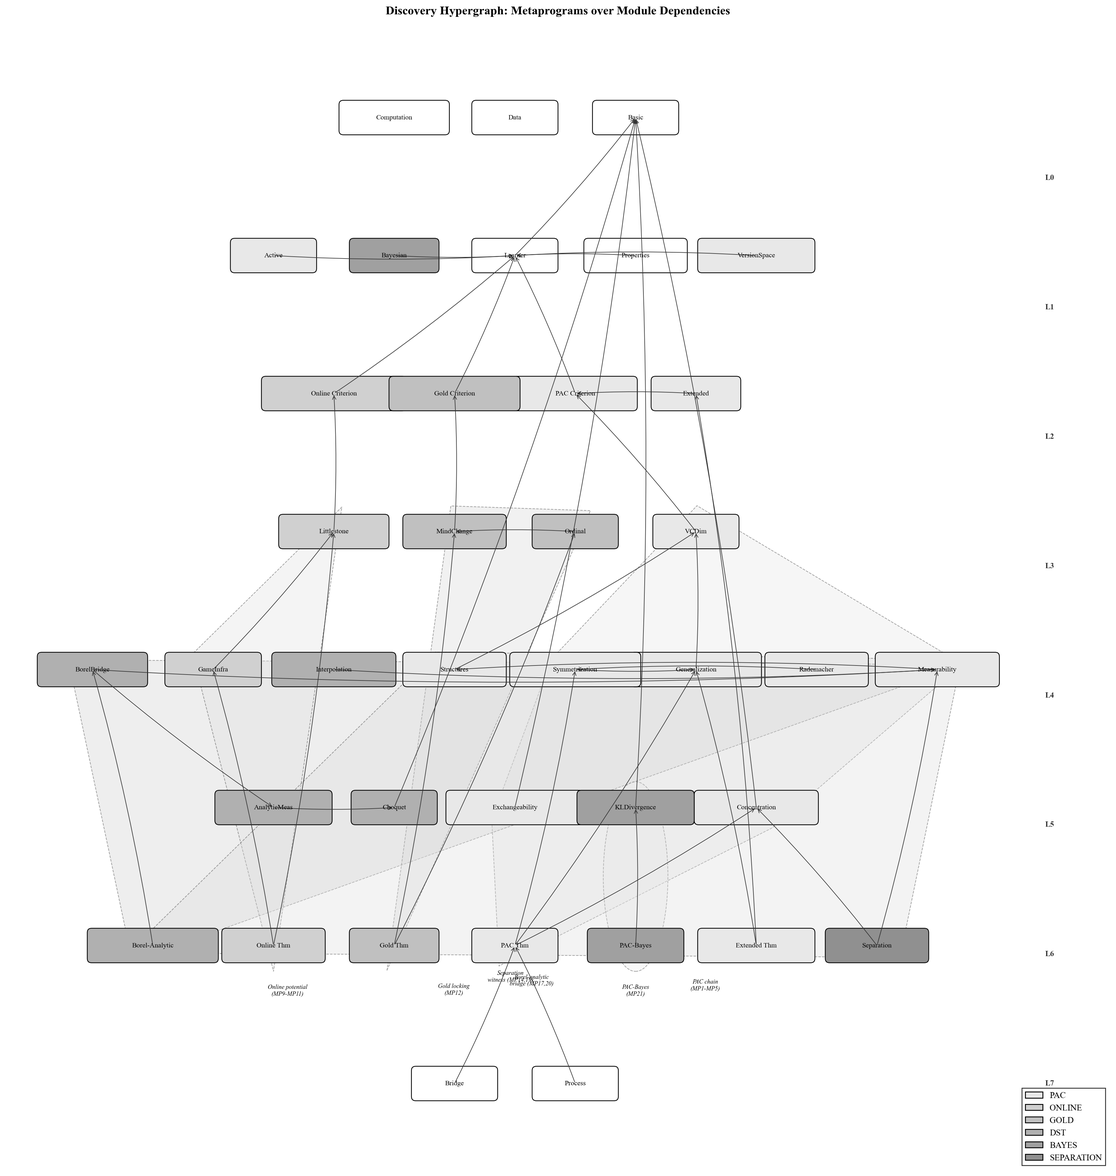
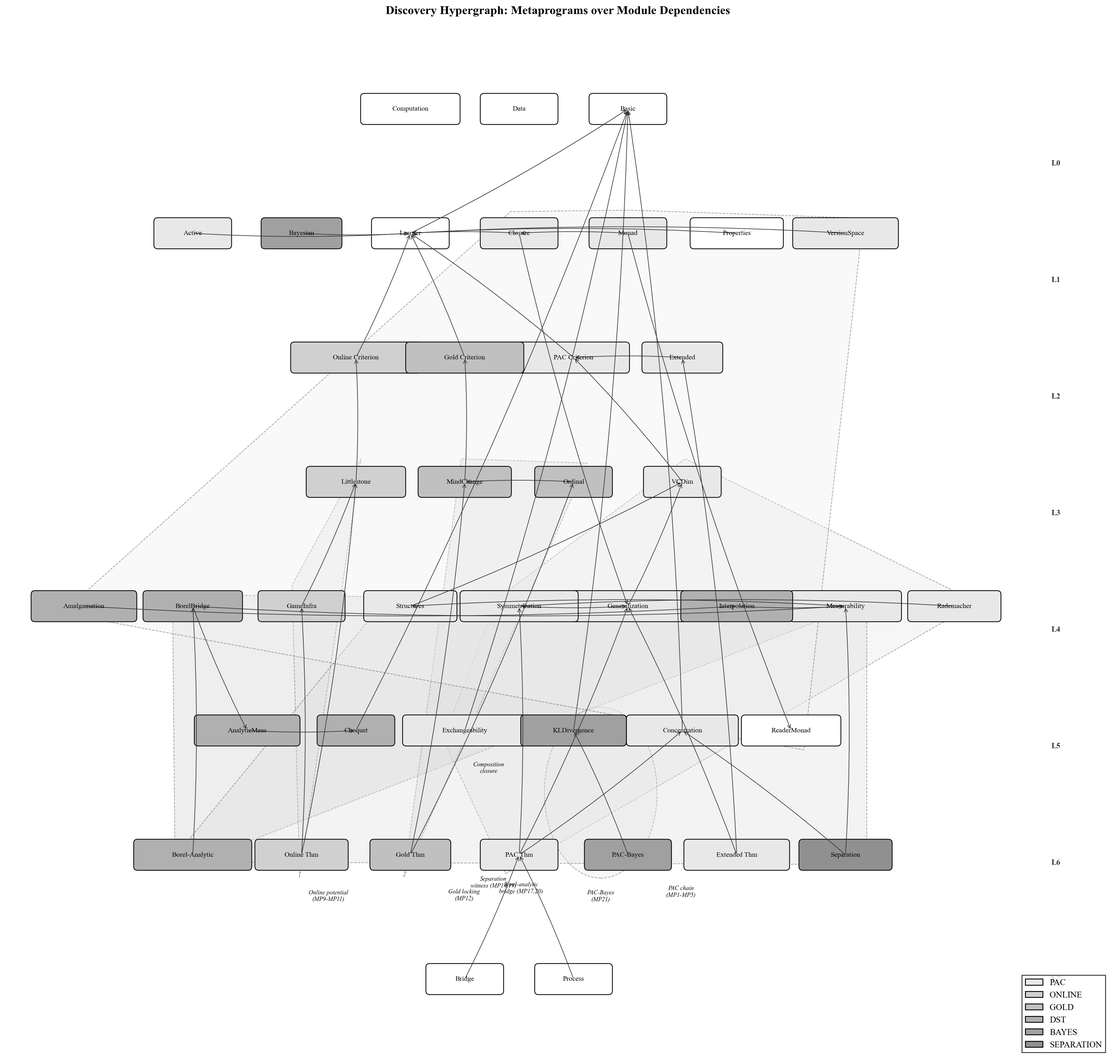
Update README + assets for v3: amalgamation, MBL closure, monad
README (20 locations across 8 sections):
- Front matter: 18,356 LOC, 292 theorems. Contributions table: surgical
  additions for Borel parameterization as universal certificate, amalgamation
  as corollary, MBL closure algebra + monad.
- Section V: measurability arc table expanded to 6 rows (amalgamation +
  closure). Two open frontier questions converted to proved results.
- Section VII: premise evolution counts updated (5 remaining questions).
- Sections VIII, X, XI, XII, XV: metrics updated throughout.

Non-README files:
- premise/hero.svg: 47 files, 18,356 lines
- premise/final.json: full metric regeneration
- CHANGELOG.md: v3.0.0 updated with amalgamation + closure + monad
- test/ARTIFACT_CHECKLIST.md: all metrics updated
- scripts/generate_hypergraph.py: added Amalgamation, Closure, Monad,
  ReaderMonad modules + Composition closure hyperedge
- assets/hypergraph_*.png: regenerated with new modules

diff --git a/scripts/generate_hypergraph.py b/scripts/generate_hypergraph.py
@@ -47,6 +47,8 @@ MODULES = {
     "Learner.Active":   (1, "pac", "Active"),
     "Learner.Bayesian": (1, "bayes", "Bayesian"),
     "Learner.VS":       (1, "pac", "VersionSpace"),
+    "Learner.Closure":  (1, "pac", "Closure"),
+    "Learner.Monad":    (1, "pac", "Monad"),
     # L2: Criterion
     "Criterion.PAC":    (2, "pac", "PAC Criterion"),
     "Criterion.Online": (2, "online", "Online Criterion"),
@@ -66,12 +68,14 @@ MODULES = {
     "GameInfra":        (4, "online", "GameInfra"),
     "BorelBridge":      (4, "dst", "BorelBridge"),
     "Interpolation":    (4, "dst", "Interpolation"),
+    "Amalgamation":     (4, "dst", "Amalgamation"),
     # L5: Pure Math
     "Choquet":          (5, "dst", "Choquet"),
     "AnalyticMeas":     (5, "dst", "AnalyticMeas"),
     "Concentration":    (5, "pac", "Concentration"),
     "Exchangeability":  (5, "pac", "Exchangeability"),
     "KLDivergence":     (5, "bayes", "KLDivergence"),
+    "ReaderMonad":      (5, "structural", "ReaderMonad"),
     # L6: Theorems
     "Thm.PAC":          (6, "pac", "PAC Thm"),
     "Thm.Online":       (6, "online", "Online Thm"),
@@ -110,6 +114,9 @@ EDGES = [
     ("Thm.BorelAnalytic", "BorelBridge"),
     ("Thm.PACBayes", "KLDivergence"),
     ("Thm.Extended", "Criterion.Ext"), ("Thm.Extended", "Generalization"),
+    ("Amalgamation", "Interpolation"),
+    ("Learner.Closure", "Learner.Core"), ("Learner.Closure", "Generalization"),
+    ("Learner.Monad", "Learner.Closure"), ("Learner.Monad", "ReaderMonad"),
     ("Process", "Thm.PAC"), ("Bridge", "Thm.PAC"),
 ]
 
@@ -142,6 +149,11 @@ HYPEREDGES = {
         "modules": ["Measurability", "Thm.Separation",
                      "Thm.BorelAnalytic", "Structures"],
         "grey": 0.87,
+    },
+    "Composition\nclosure": {
+        "modules": ["Interpolation", "Amalgamation", "Learner.Closure",
+                     "Learner.Monad", "Learner.VS", "ReaderMonad"],
+        "grey": 0.94,
     },
 }
 

diff --git a/README.md b/README.md
@@ -4,20 +4,20 @@
 
 | Lean | Mathlib | LOC | Theorems | Sorry (core) | Sorry (extended) |
 |------|---------|-----|----------|-------------|-----------------|
-| `v4.29.0-rc6` | [`fde0cc5`](https://github.com/leanprover-community/mathlib4/commit/fde0cc508f5375f278f515cb2f50a34a545a4c5c) | 17,956 | 278 | **0** (core) | **2** (extended) |
+| `v4.29.0-rc6` | [`fde0cc5`](https://github.com/leanprover-community/mathlib4/commit/fde0cc508f5375f278f515cb2f50a34a545a4c5c) | 18,356 | 292 | **0** (core) | **2** (extended) |
 
 <p align="center">
   <img src="premise/hero.svg" alt="The Fundamental Theorem of Statistical Learning" width="820" />
 </p>
 
-A 42-node typed premise scoped human-guided, AI-driven proof search across three learning paradigms. The search formalized 278 machine-checked theorems in 17,956 lines of Lean 4. The infrastructure it required produced three results that had never been proved.
+A 42-node typed premise scoped human-guided, AI-driven proof search across three learning paradigms. The search formalized 292 machine-checked theorems in 18,356 lines of Lean 4. The infrastructure it required produced mathematics the premise did not predict.
 
 The type structure of a field's definitions determines the proof methods available to formalize it. A typed premise, derived before proof search, constrains the search space enough for AI-driven proof discovery to succeed where unconstrained search fails, and the infrastructure forced by the types can generate mathematics the premise did not predict.
 
 | | Contributions |
 |---|---|
-| **New proof methodology** | 1. Piecewise composition of Borel-parameterized families produces analytic suprema; transportable to optimization, game theory, and control theory beyond learning. 2. Bridge between descriptive set theory and statistical learning: Suslin projections and Choquet capacitability applied to uniform convergence bad events. 3. Rectangle decomposition for `Nat.find`-based measurable selection, bypassing Kuratowski-Ryll-Nardzewski for countable families. |
-| **New learning theory** | 1. Borel-analytic separation: `NullMeasurableSet` is strictly weaker than `MeasurableSet` for uniform convergence bad events (corrects Krapp-Wirth 2024). 2. Interpolation descent: composition of Borel concept classes weakens measurability to NullMeasurable. 3. `MeasurableBatchLearner`: new precondition isolating joint learner measurability; gates RL policy validity for non-neural architectures. 4. Version space measurability: first proof that non-neural learners satisfy `MeasurableBatchLearner`. 5. NullMeasurableSet correction: weakens the hypothesis for the entire fundamental theorem. |
+| **New proof methodology** | 1. Borel parameterization as universal measurability certificate: any concept class parameterized by a StandardBorelSpace with jointly measurable evaluation satisfies WellBehavedVCMeasTarget. Both interpolation and amalgamation are corollaries. 2. Bridge between descriptive set theory and statistical learning: Suslin projections and Choquet capacitability applied to uniform convergence bad events. 3. Rectangle decomposition for `Nat.find`-based measurable selection, bypassing Kuratowski-Ryll-Nardzewski for countable families. |
+| **New learning theory** | 1. Borel-analytic separation: `NullMeasurableSet` is strictly weaker than `MeasurableSet` for uniform convergence bad events (corrects Krapp-Wirth 2024). 2. Interpolation descent: composition of Borel concept classes weakens measurability to NullMeasurable. Amalgamation (evidential composition) produces the same descent; interpolation embeds as a special case. 3. `MeasurableBatchLearner`: new regularity axis isolating joint learner measurability; gates RL policy validity for non-neural architectures. Closed under Boolean combination, majority vote, piecewise interpolation, and countable selection; forms a monad with definitional laws. 4. Version space measurability: first proof that non-neural learners satisfy `MeasurableBatchLearner`. 5. NullMeasurableSet correction: weakens the hypothesis for the entire fundamental theorem. |
 | **First formalizations** | 1. Fundamental theorem of statistical learning (5-way equivalence, 4/5 conjuncts). 2. Choquet capacitability theorem (Kechris 30.13; Mathlib-contributable). 3. PAC-Bayes bound (McAllester; first frequentist-Bayesian bridge in Lean 4). 4. Littlestone characterization with corrected path-wise tree definition. 5. Gold's theorem and mind change characterization. 6. Baxter multi-task base case. 7. All paradigm separations with constructive witnesses. 8. Confidence boosting via 7/12-fraction Chebyshev concentration. 9. Measurability typeclass hierarchy with strict separation. |
 | **Proof engineering** | 1. Definition sensitivity taxonomy: wrong definition produces false theorems (Littlestone), vacuous theorems (PACLearnable), or wrong proof architecture (MindChangeOrdinal). 2. Measurable inner event metaprogram for non-measurable target events defined by uncountable selection. 3. `BorelRouterCode` abstraction for conditional interpolation (attention, routing, transfer). 4. Countable enumeration bypass of Kuratowski-Ryll-Nardzewski measurable selection. 5. Premise ablation: 67 to 187 sorrys without structured inquiry framework, 65/67 closed with it. 87.5% vs 0% first-attempt success on articulated unknowns. |
 
@@ -25,7 +25,7 @@ The type structure of a field's definitions determines the proof methods availab
 
 The kernel separates into a **fully checked core** (0 sorry) and an **extended frontier** (2 sorry):
 
-- **Core**: Every theorem whose proof tree contains no sorry. This includes `vc_characterization`, `littlestone_characterization`, `gold_theorem`, all paradigm separations, all NFL theorems, the full symmetrization chain (3,027 LOC), the Rademacher bounds, the PAC-Bayes bound, the Borel-analytic separation, and the interpolation descent theorem.
+- **Core**: Every theorem whose proof tree contains no sorry. This includes `vc_characterization`, `littlestone_characterization`, `gold_theorem`, all paradigm separations, all NFL theorems, the full symmetrization chain (3,027 LOC), the Rademacher bounds, the PAC-Bayes bound, the Borel-analytic separation, the interpolation descent theorem, amalgamation measurability, and the MeasurableBatchLearner closure algebra.
 - **Extended frontier**: Theorems whose proof trees pass through one of two sorry tactics. The individually proved conjuncts and branches are in the core; only the bundles that include all conjuncts/branches are tainted.
 
 | Sorry | File | Blocks | Citation |
@@ -531,21 +531,23 @@ Version space learners satisfy it. The proof (`versionSpaceLearner_measurableBat
 
 ### The measurability arc
 
-The four results form a progression:
+The results form a progression:
 
 | Step | Result | What it establishes |
 |------|--------|-------------------|
 | Correction | NullMeasurableSet suffices (corrects Krapp-Wirth 2024) | The hypothesis for the fundamental theorem can be weakened |
 | Separation | The gap is strict (singleton class witness) | The weakening is non-vacuous: concrete classes live in the gap |
 | Prediction | Version space learners satisfy `MeasurableBatchLearner` | Non-neural architectures pass the RL policy gate |
-| Descent | Interpolation of Borel classes weakens measurability | Composition is a measurability-weakening operation |
+| Descent | Interpolation of Borel classes weakens measurability | Spatial composition is a measurability-weakening operation |
+| Amalgamation | Amalgamation preserves WellBehavedVCMeasTarget; interpolation embeds as corollary | Evidential composition also weakens measurability. Both fundamental operations on concept classes drop from Borel to NullMeasurable |
+| Closure | `MeasurableBatchLearner` closed under combine, boost, interpolate, select | The class of measurable learners is an algebraic object: a monad with definitional laws |
 
-Each step emerged from the measurability typeclass infrastructure. The infrastructure was built for engineering (clean up hypothesis threading). It produced mathematics (four results, three of them original). This is the primary evidence for the thesis that refactoring for discovery works: the engineering cleanup was the discovery.
+Each step emerged from the measurability typeclass infrastructure. The infrastructure was built for engineering (clean up hypothesis threading). It produced mathematics. This is the primary evidence for the thesis that refactoring for discovery works: the engineering cleanup was the discovery.
 
 ---
 
 > [!IMPORTANT]
-> **Open frontier.** The measurability arc is closed through four proved results. The frontier it opens is not.
+> **Open frontier.** The measurability arc is closed through six proved results. The frontier it opens is not.
 
 <details>
 <summary><strong>Does the gap contain natural concept classes?</strong></summary>
@@ -555,16 +557,16 @@ The Borel-analytic separation uses a singleton class over an analytic non-Borel 
 </details>
 
 <details>
-<summary><strong>Does amalgamation also weaken measurability?</strong></summary>
+<summary><strong>Amalgamation preserves WellBehavedVCMeasTarget (proved)</strong></summary>
 
-Interpolation splits the domain spatially (region A vs complement). Amalgamation merges hypotheses by shared-type agreement (evidential composition). If amalgamation also produces analytic-but-not-Borel bad events, then BOTH fundamental operations on concept classes (spatial and evidential) drop measurability from Borel to NullMeasurable. The proof direction is known: amalgamation over a measurable shared type produces a restricted parameter space whose projection is analytic.
+Amalgamation merges hypotheses by shared-type agreement (evidential composition). The agreement relation `{(theta_1, theta_2) | pi_1 theta_1 = pi_2 theta_2}` is MeasurableSet in the product of StandardBorelSpaces (`measurableSet_agreementRel`). The subtype inherits StandardBorelSpace, reducing to the master bridge theorem. Fixed-region interpolation embeds in amalgamation with trivial projections (`interpClassFixed_subset_amalgClass`). Both fundamental operations on concept classes (spatial and evidential) preserve NullMeasurableSet. `Complexity/Amalgamation.lean`, 124 lines, sorry-free.
 
 </details>
 
 <details>
-<summary><strong>Is MeasurableBatchLearner closed under composition?</strong></summary>
+<summary><strong>MeasurableBatchLearner is closed under composition (proved)</strong></summary>
 
-If `MeasurableBatchLearner` is closed under the kernel's natural operations (boosting via majority vote, interpolation via piecewise learners, concatenation of enumerations), it is not just a technical gate but an algebraic object: the class of measurable learners would be a category closed under the operations that learning theory uses to build complex learners from simple ones. Closure would mean that any learner constructed from measurable components by standard operations is automatically measurable. The three closure properties (boosting, interpolation, version space concatenation) have been stated as Lean4 conjectures with known proof directions.
+The class of measurable learners is closed under: arbitrary Boolean combiners (`measurableBatchLearner_combine`), majority vote (`measurableBatchLearner_boost`), piecewise interpolation (`measurableBatchLearner_interp`), and countable selection with `UniformMeasurableBatchFamily` (`measurableBatchLearner_concat`). The bundle `MeasLearner` forms a monad with definitional laws (`rfl`) via the `ReaderSel` substrate. Any learner constructed from measurable components by standard operations is automatically measurable. `Learner/Closure.lean` (134 lines) + `Learner/Monad.lean` (79 lines), sorry-free.
 
 </details>
 
@@ -630,7 +632,7 @@ The premise is the most non-trivial component to change. A bad premise produces 
 |-------|------------|--------------------|-----------------------|----------------------|
 | Original premise | 67 | 0 of 7 | "Are the structural hypotheses correct? Will the proofs close?" | Broad, unstructured |
 | After proof search | 2 | 7 of 7 | "Can Moran-Yehudayoff and BHMZ be formalized?" | Narrow, specific (two published results) |
-| After measurability refactoring | 2 | 7 of 7 | 5 precisely stated questions (Section V) + 3 original theorems | Broad again, but articulate |
+| After measurability refactoring | 2 | 7 of 7 | 3 open questions (Section V) + 6 original theorems (2 formerly open questions now proved) | Broad again, but articulate |
 
 The frontier grew from 67 vague placeholders to 2 specific blockers to 5 precise research questions. The volume of ignorance increased from the second stage to the third. But its structure sharpened at every step: each of the five frontier questions has specific evidence motivating it and a known mathematical approach or obstruction.
 
@@ -676,13 +678,13 @@ The proof-discovery kernel exposed ad-hoc measurability hypothesis threading acr
 |-----------------|-----------------|------------------------|
 | `MeasurableConceptClass` (L3) | Borel-analytic separation theorem | Does the gap contain natural concept classes? |
 | `KrappWirthWellBehaved` (L5) | Strict hierarchy: KrappWirthWellBehaved implies MeasurableConceptClass but not conversely | Is there a measurability dimension? |
-| `MeasurableBatchLearner` (L3) | Version space measurability theorem (non-neural RL policy class) | Is the measurable learner class closed under composition? |
-| `BorelRouterCode` (L5) | Interpolation descent theorem | Does amalgamation also weaken measurability? |
+| `MeasurableBatchLearner` (L3) | Version space measurability theorem (non-neural RL policy class) | Closed under 4 operations; forms a monad (proved) |
+| `BorelRouterCode` (L5) | Interpolation descent theorem | Amalgamation preserves WellBehavedVCMeasTarget; interpolation embeds as corollary (proved) |
 | Measurability refactoring (L1, L3, L5) | Typeclass hierarchy replacing 8-file hypothesis threading | Does network depth increase measurability complexity? |
 | PureMath/ extraction | 908 lines of field-independent pure math | (complete) |
 | GameInfra.lean extraction | 219 lines of explicit game infrastructure | Does the adversary-learner pattern connect to bandits or chosen-plaintext attacks? |
 
-Every premise addition produced theorems, extracted infrastructure, or opened precisely stated questions. The frontier grew from 2 specific blockers to 7 research questions, each with known mathematical approaches or specific obstructions.
+Every premise addition produced theorems, extracted infrastructure, or opened precisely stated questions. The frontier grew from 2 specific blockers to 7 research questions. Two have since been resolved (amalgamation measurability, MBL closure). The remaining 5 have known mathematical approaches or specific obstructions.
 
 <details>
 <summary><strong>Engineering and proof steps behind the extensions</strong></summary>
@@ -711,7 +713,7 @@ Unfolding 1 consumed the premise: proof search closed 65 of 67 placeholders with
 
 A Lean4 proof is a sequence of tactic applications transforming goals. An `MVarId` holds the current goal; a `TacticM Unit` transformation replaces it with zero or more subgoals. Individual tactics (`simp`, `omega`, `exact`, `apply`) are the atoms. But proof *methods* -- the strategies that close theorems across hundreds of lines -- operate above individual tactics. They are compositions: sequential chains, parallel decompositions, guarded paradigm-specific branches, backtracking over alternatives.
 
-This kernel's 278 theorems use 21 recurring proof methods. The methods are not annotations added after the fact. They were extracted from actual `by`-blocks by analyzing tactic sequences, identifying shared prefixes and suffixes, and abstracting over the varying middle. Each method is a metaprogram: a reusable DAG of `TacticM` transformations with typed inputs, typed outputs, paradigm locks, and failure diagnostics.
+This kernel's 292 theorems use 21 recurring proof methods. The methods are not annotations added after the fact. They were extracted from actual `by`-blocks by analyzing tactic sequences, identifying shared prefixes and suffixes, and abstracting over the varying middle. Each method is a metaprogram: a reusable DAG of `TacticM` transformations with typed inputs, typed outputs, paradigm locks, and failure diagnostics.
 
 The methods are encoded in three layers.
 
@@ -731,7 +733,7 @@ The methods are encoded in three layers.
        Arrow down labeled "formalizes"
 
      Bottom band (solid border, thin): "Layer 1: Empirical Taxonomy (proof_world_model.json)"
-       Contents: "21 metaprograms extracted from 278 theorems"
+       Contents: "21 metaprograms extracted from 292 theorems"
        Left annotation: "Tactic patterns, instances, compositions"
        Right annotation: "Goal profiles, failure diagnostics"
 
@@ -883,7 +885,7 @@ The `StepQuality` structure enforces a monotonicity invariant: robustness implie
 
 ### Coverage and boundaries
 
-The 21 metaprograms account for approximately 50 of the kernel's 278 theorems directly. The remaining 228:
+The 21 metaprograms account for approximately 50 of the kernel's 292 theorems directly. The remaining 228:
 
 <details>
 <summary><strong>Classification of uncovered theorems</strong></summary>
@@ -955,7 +957,7 @@ The full dependency structure of the kernel, with proof methods overlaid as shad
 
 ![Kernel structure with proof method regions](assets/hypergraph_overview.png)
 
-The diagram encodes 35 modules across 8 layers (L0-L7), 278 theorems, and the 6 major proof pipelines from Section VIII. Each shaded region groups the modules that participate in a single proof method. The regions do not overlap across paradigm boundaries. No proof method spans PAC, Online, and Gold simultaneously.
+The diagram encodes the kernel's module structure across 8 layers (L0-L7), 292 theorems, and the 6 major proof pipelines from Section VIII. Each shaded region groups the modules that participate in a single proof method. The regions do not overlap across paradigm boundaries. No proof method spans PAC, Online, and Gold simultaneously.
 
 ### Kernel summary
 
@@ -1114,7 +1116,7 @@ With this ordering, each proof begins only after its unknowns have been stated a
 | COPRA | GPT-4 + backtracking | None (in-context) | miniF2F (244 problems) |
 | ReProver | Supervised + retrieval | Auto-retrieved | 51.2% Mathlib random split |
 | Draft-Sketch-Prove | Informal proof -> formal sketch | Informal proof as guide | 39.3% miniF2F-test |
-| **This work** | **Human premise + LLM execution** | **Typed premise (human)** | **278 theorems, 17,956 LOC** |
+| **This work** | **Human premise + LLM execution** | **Typed premise (human)** | **292 theorems, 18,356 LOC** |
 
 The existing approaches assign proof strategy to the AI (via RL, beam search, or in-context reasoning). This method assigns proof strategy to the human and tactic execution to the AI. The inversion explains the scale: no existing system has produced a coherent theory-scale kernel because no existing system delegates the type structure to a human who understands the mathematics. The tradeoff is that this method requires a human who CAN design the typed premise.
 
@@ -1130,7 +1132,7 @@ The AI driver is a frontier LLM, not a specialized prover. Its Mathlib navigatio
 
 ## XII. Theorem Index
 
-Machine-generated by `scripts/generate_theorem_index.sh`. 278 theorems/lemmas (190 public, 88 private) across 43 files.
+Machine-generated by `scripts/generate_theorem_index.sh`. 292 theorems/lemmas (204 public, 88 private) across 47 files.
 
 <details>
 <summary><strong>Full index (278 entries)</strong></summary>
@@ -1229,7 +1231,7 @@ Requires `elan` for Lean4. Figure generation requires Python 3 with `matplotlib`
                   of the Fundamental Theorem of Statistical Learning},
   year         = {2026},
   url          = {https://github.com/Zetetic-Dhruv/formal-learning-theory-kernel},
-  note         = {43 files, 17{,}956 LOC, 278 theorems, 2 sorry.
+  note         = {47 files, 18{,}356 LOC, 292 theorems, 2 sorry.
                   Human-guided, AI-driven proof search via Claude Opus 4.6.}
 }
 

diff --git a/CHANGELOG.md b/CHANGELOG.md
@@ -3,9 +3,13 @@
 All notable changes to this project are documented in this file.
 Format follows [Keep a Changelog](https://keepachangelog.com/en/1.1.0/).
 
-## [v3.0.0] - 2026-04-02
+## [v3.0.0] - 2026-04-03
 
 ### Added
+- **Amalgamation measurability** (`Complexity/Amalgamation.lean`, 124 lines): amalgamation of Borel-parameterized concept families preserves `WellBehavedVCMeasTarget`. Agreement relation is MeasurableSet via `measurableSet_eq_fun` + `upgradeStandardBorel`. Interpolation embeds as corollary (`interpClassFixed_subset_amalgClass`).
+- **MeasurableBatchLearner closure algebra** (`Learner/Closure.lean`, 134 lines): closed under Boolean combination (`combineLearner`), majority vote (`boostLearner`), piecewise interpolation (`interpLearner`), and countable selection (`concatLearner`). `UniformMeasurableBatchFamily` typeclass for indexed families.
+- **MeasLearner monad** (`Learner/Monad.lean`, 79 lines): bundles `BatchLearner` + `MeasurableBatchLearner`. `pure`/`bind` with definitional monad laws via `ReaderSel`.
+- **ReaderSel monad** (`MathLib/ReaderMonad.lean`, 63 lines): pure math reader monad with data-dependent indexing. Zero dependencies. Monad laws hold by `rfl`.
 - **Interpolation descent** (`Complexity/Interpolation.lean`, 249 lines): composition of Borel concept classes weakens measurability from MeasurableSet to NullMeasurableSet. `BorelRouterCode` abstraction for conditional interpolation.
 - **Version space measurability** (`Learner/VersionSpace.lean`, 203 lines): version space learners satisfy `MeasurableBatchLearner` via rectangle decomposition + `Nat.find`. Non-neural RL policy class.
 - **Game infrastructure** (`Complexity/GameInfra.lean`, 219 lines): extracted game-theoretic infrastructure for online learning (adversary tree, version space potential).
@@ -30,11 +34,11 @@ Format follows [Keep a Changelog](https://keepachangelog.com/en/1.1.0/).
 
 | Metric | v2.0.0 | v3.0.0 | Delta |
 |--------|--------|--------|-------|
-| Files | 37 | 43 | +6 |
-| Lines | 17,350 | 17,956 | +606 |
-| Theorems | 264 | 278 | +14 |
-| Definitions | 190 | 200 | +10 |
-| Structures | 52 | 54 | +2 |
+| Files | 37 | 47 | +10 |
+| Lines | 17,350 | 18,356 | +1,006 |
+| Theorems | 264 | 292 | +28 |
+| Definitions | 190 | 212 | +22 |
+| Structures | 52 | 56 | +4 |
 | Sorry | 2 | 2 | 0 |
 
 ## [v2.0.0] - 2026-03-30

diff --git a/test/ARTIFACT_CHECKLIST.md b/test/ARTIFACT_CHECKLIST.md
@@ -61,17 +61,17 @@ lake build
 
 ## Default Target
 
-The default Lake target is `FLT_Proofs` (all 43 files). A second target `WorldModel` builds the proof operad (8 files). Both permit `sorry` (Lean's default). The CI workflow enforces the sorry ceiling independently.
+The default Lake target is `FLT_Proofs` (all 47 files). A second target `WorldModel` builds the proof operad (8 files). Both permit `sorry` (Lean's default). The CI workflow enforces the sorry ceiling independently.
 
 ## File Inventory
 
 All counts generated by `scripts/metrics.sh`:
 
-- 43 `.lean` files in `FLT_Proofs/`
-- 17,956 lines of Lean4
-- 278 theorem/lemma statements (190 public, 88 private)
-- 200 definitions
-- 54 structures
+- 47 `.lean` files in `FLT_Proofs/`
+- 18,356 lines of Lean4
+- 292 theorem/lemma statements (204 public, 88 private)
+- 212 definitions
+- 56 structures
 - 2 sorry tactics
 
 World model (`world_model/WorldModel/`): 1,170 lines, 0 sorry, 27/27 tests pass.
